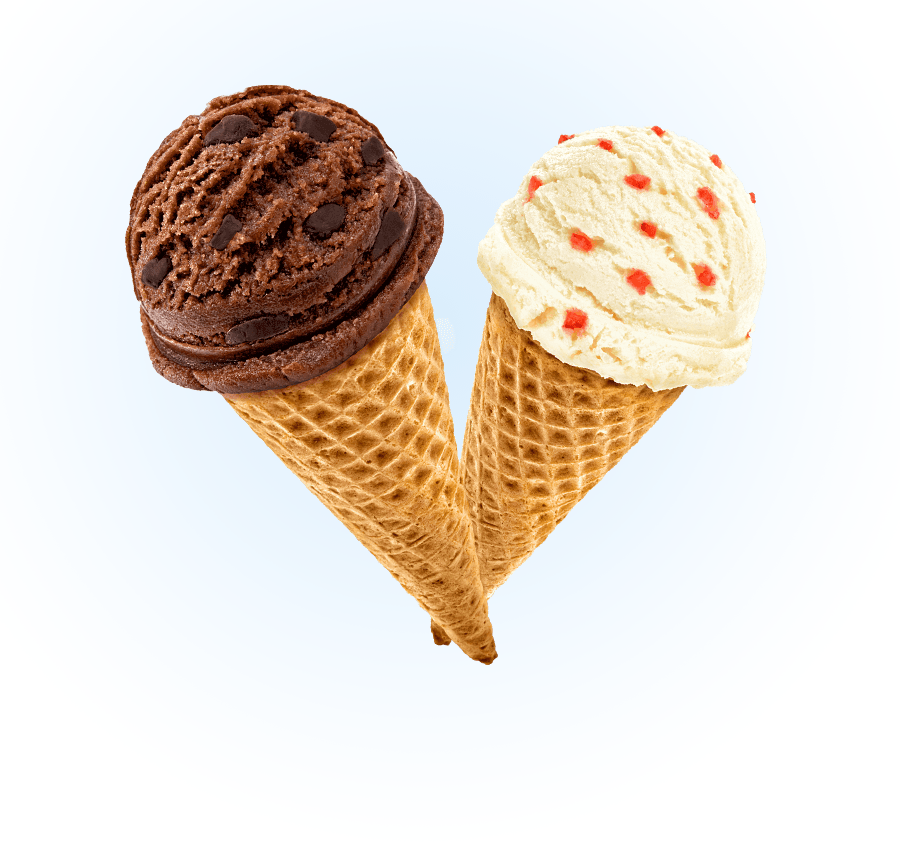
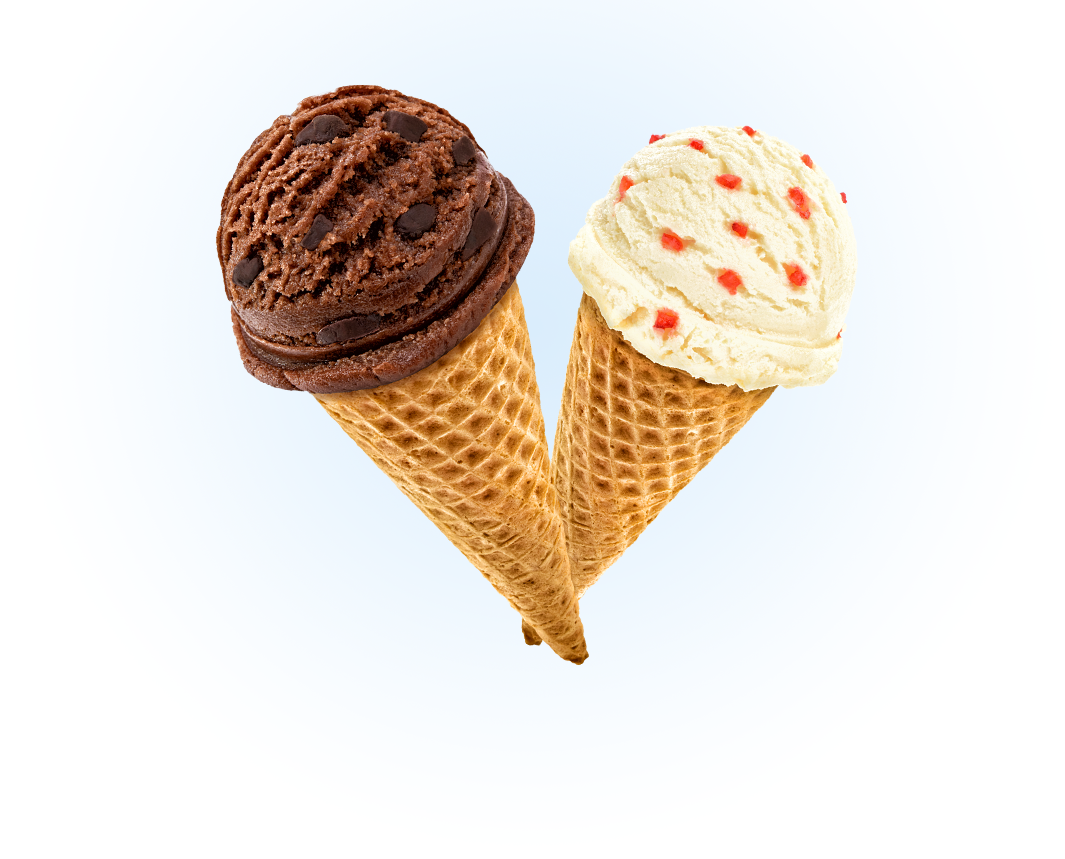
background всей страницы

Changed region(s): [[0.1244, 0.0908, 0.8711, 0.787]]

diff --git a/index.html b/index.html
@@ -8,6 +8,9 @@
     <link href="css/normalize.css" rel="stylesheet">
   </head>
   <body>
+    <input class="visually-hidden" type="radio" id="product-1" name="toggle" checked>
+    <input class="visually-hidden" type="radio" id="product-2" name="toggle">
+    <input class="visually-hidden" type="radio" id="product-3" name="toggle">
     <div class="site-wrapper">
        <div class="container">
     <header class="main-header">
@@ -40,19 +43,14 @@
               </li>
             </ul>
       </nav>
-      <div class="container">
         <ul class="main-contacts">
           <li class="work-time">С 10 до 20, ежедневно</li>
           <li class="phone-number">8 812 450-25-25</li>
         </ul>
-      </div>
     </header>
-    <main class="container">
+    <main>
       <section class="slider">
         <div class="slider-controls">
-          <input class="visually-hidden" type="radio" id="product-1" name="toggle" checked>
-          <input class="visually-hidden" type="radio" id="product-2" name="toggle">
-          <input class="visually-hidden" type="radio" id="product-3" name="toggle">
             <label for="product-1">Первый</label>
             <label for="product-2">Второй</label>
             <label for="product-3">Третий</label>
@@ -83,17 +81,13 @@
         <ul class="event-list">
           <li class="event-item">
             <h3>Малинка даром!</h3>
-            <p>При покупке 2 кг любого фруктового мороженого, добавим в ваш заказ банку малинового варенья бесплатно.</p>
-            <div>
-              <a class="button" href="#">Хочу варенье!</a>
-            </div>
+            <p>При покупке 2 кг любого фруктового мороженого, добавим в ваш заказ банку малинового варенья</p>
+            <a class="button" href="#">Хочу варенье!</a>
           </li>
           <li class="event-item">
             <h3>Шоколадки даром!</h3>
             <p>При покупке 2 кг пломбира, добавим в ваш заказ упаковку вкуснейшей шоколадной присыпки совершенно бесплатно</p>
-            <div>
-              <a class="button" href="#">Хочу шоколадки!</a>
-            </div>
+            <a class="button" href="#">Хочу шоколадки!</a>
           </li>
         </ul>
       </section>
@@ -102,25 +96,33 @@
         <ul class="catalog-list">
           <li class="catalog-item">
             <img src="img/orange-cream.jpg" width="267" height="267" alt="Изображение мороженого с апельсиновым джемом">
-            <b>310</b><img src="img/ruble.svg"><span>/кг</span>
+            <p class="product-price">
+            <span>310<img src="img/ruble.svg"></span>/кг
+            </p>
             <a class="item-info" href="#">Сливочное с апельсиновым джемом и цитрусовой стружкой</a>
             <a class="button btn-hover" href="#">Быстрый просмотр</a>
           </li>
           <li class="catalog-item">
             <img src="img/chocolate-cream.jpg" width="267" height="267" alt="Изображение шоколадного мороженого">
+           
             <b>380</b><img src="img/ruble.svg"><span>/кг</span>
+          
             <a class="item-info" href="#">Сливочно-кофейное с кусочками шоколада</a>
             <a class="button btn-hover" href="#">Быстрый просмотр</a>
           </li>
           <li class="catalog-item">
             <img src="img/strawberry-cream.jpg" width="267" height="267" alt="Изображение клубничного мороженого">
+        
             <b>355</b><img src="img/ruble.svg"><span>/кг</span>
+         
             <a class="item-info" href="#">Сливочно-клубничное с присыпкой из белого шоколада</a>
             <a class="button btn-hover" href="#">Быстрый просмотр</a>
           </li>
           <li class="catalog-item">
             <img src="img/caramel-cream.jpg" width="267" height="267" alt="Изображение крем-брюле мороженого">
+            <div>
             <b>415Р</b><img src="img/ruble.svg"><span>/кг</span>
+            </div>
             <a class="item-info" href="#">Сливочное крем-брюле с карамельной подливкой</a>
             <a class="button btn-hover" href="#">Быстрый просмотр</a>
           </li>

diff --git a/css/style.css b/css/style.css
@@ -36,7 +36,9 @@ input[type="radio"].visually-hidden {
 
 .site-wrapper {
   width: 100%;
-  background-color: #849d8f;
+  transition: background-image 0.5s ease, background-color 0.5s ease;
+  background-repeat: no-repeat;
+  background-position: top center;
 }
 
 .container {
@@ -95,6 +97,7 @@ input[type="radio"].visually-hidden {
 .main-navigation {
   display: flex;
   flex-wrap: wrap;
+  width: 1146px;
   font-size: 16px;
   line-height: 20px;
 }
@@ -242,37 +245,48 @@ input[type="radio"].visually-hidden {
 /*ГЛАВНАЯ СТРАНИЦА*/
 
 .slide {
+  height: 700px;
   display: none;
+}
+
+.slide-button {
+  position: relative;
+  top: 450px;
+  min-width: 280px;
+  max-height: 65px;
+  padding: 10px;
+  margin: 0;
+  font-size: 32px;
+  line-height: 44px;
+  font-weight: 700;
 }
 
 .slider {
   min-width: 940px;
-  height: 530px;
-  position: relative;
-  padding-top: 321px;  
+  height: 490px;
   text-align: center;
-  background-image: url(/img/index-cream.png);
   background-repeat: no-repeat;
 }
 
 .slider-list {
-  margin: 0;
-  padding: 0;
+  position: relative;
+  bottom: 80px;
 }
 
 .slide-title {
+  position: absolute;
+  top: 250px;
+  left: 200px;
   width: 700px;
-  margin: 0 auto;
-  margin-bottom: 27px;
   font-size: 60px;
   line-height: 60px;
   font-weight: 800;
 }
 
 .slider-controls {
-  position: absolute;
-  bottom: 63px;
-  left: 0;
+  position: relative;
+  top: 400px;
+  left: -520px;
   z-index: 20;
   font-size: 0;
 }
@@ -290,18 +304,24 @@ input[type="radio"].visually-hidden {
 }
 
 #product-1:checked ~ .site-wrapper {
+  background-image: url(/img/index-1.png);
+  background-position: top;
+  background-repeat: no-repeat;
   background-color: #849d8f;
-  background-image: url("/img/index-cream.png");
 }
 
 #product-2:checked ~ .site-wrapper {
+  background-image: url(/img/index-2.png);
+  background-position: top;
+  background-repeat: no-repeat;
   background-color: #8996a6;
-  background-image: url("/img/chocolate-cream.jpg");
 }
 
 #product-3:checked ~ .site-wrapper {
+  background-image: url(/img/index-3.png);
+  background-position: top ;
+  background-repeat: no-repeat;
   background-color: #9d8b84;
-  background-image: url("/img/strawberry-cream.jpg");
 }
 
 #product-1:checked ~ .site-wrapper #slide1,
@@ -318,43 +338,19 @@ input[type="radio"].visually-hidden {
 
 .event-list {
   display: flex;
-  width: 1146px;
+  flex-wrap: wrap;
   margin: 0;
   margin-bottom: 40px;
   padding: 0;
 }
 
-.event-item h3 {
-  margin: 0;
-  margin-left: 20px;
-  margin-top: 20px;
-  padding: 0;
-  font-size: 43px;
-  line-height: 41px;
-  font-weight: 700;
-}
-
-.event-item p {
-  margin: 0;
-  margin-left: 20px;
-  margin-top: 25px;
-  margin-right: 20px;
-  padding: 0;
-  font-size: 18px;
-  line-height: 22px;
-  font-weight: 700;
-}
-
-.event-list div {
-  display: flex;
-  justify-content: flex-end;
-  margin-right: 20px;
-  margin-top: 45px;
+.event-item {
+  max-width: 520px;
+  min-height: 189px;
+  padding: 20px;
 }
 
 .event-item:first-child {
-  width: 560px;
-  height: 229px;
   background-color: #73172b;
   background-image: url(/img/Raspberry-background.jpg);
   background-repeat: no-repeat;
@@ -363,8 +359,6 @@ input[type="radio"].visually-hidden {
 }
 
 .event-item:last-child {
-  width: 560px;
-  height: 229px;
   margin-left: 26px;
   background-color: #895c47;
   background-image: url(/img/chocolate-background.jpg);
@@ -373,6 +367,38 @@ input[type="radio"].visually-hidden {
   border-radius: 20px;
 }
 
+.event-item h3 {
+  margin: 0;
+  padding: 0;
+  padding-bottom: 23px;
+  font-size: 43px;
+  line-height: 41px;
+  font-weight: 700;
+}
+
+.event-item p {
+  margin: 0;
+  margin-bottom: 45px;
+  padding: 0;
+  font-size: 18px;
+  line-height: 22px;
+  font-weight: 700;
+}
+
+.event-item .button {
+  float: right;
+  min-width: 80px;
+  min-height: 22px;
+  padding: 11px 23px;
+  font-size: 18px;
+  line-height: 24px;
+  font-weight: 700;
+}
+
+
+
+
+
 .catalog-list {
   display: flex;
   flex-wrap: wrap;
@@ -380,6 +406,22 @@ input[type="radio"].visually-hidden {
   margin: 0;
   margin-bottom: 40px;
   padding: 0;
+}
+
+.catalog-item {
+  width: 267px;
+  height: 267px;
+  margin-bottom: 40px;
+}
+
+.catalog-item a:hover,
+.catalog-item a:focus {
+  color: #e84d37;
+}
+
+
+.catalog-item img {
+  border-radius: 50%;
 }
 
 .catalog-item b {
@@ -398,21 +440,14 @@ input[type="radio"].visually-hidden {
   font-weight: 500;
 }
 
-.catalog-item {
-  width: 267px;
-  height: 267px;
-  margin-bottom: 40px;
-}
-
-.catalog-item a:hover,
-.catalog-item a:focus {
-  color: #e84d37;
-}
-
 .catalog-item .button:hover,
 .catalog-item .button:focus {
   color: #ffffff;
 }
+
+
+
+
 
 .features {
   height: 306px;
